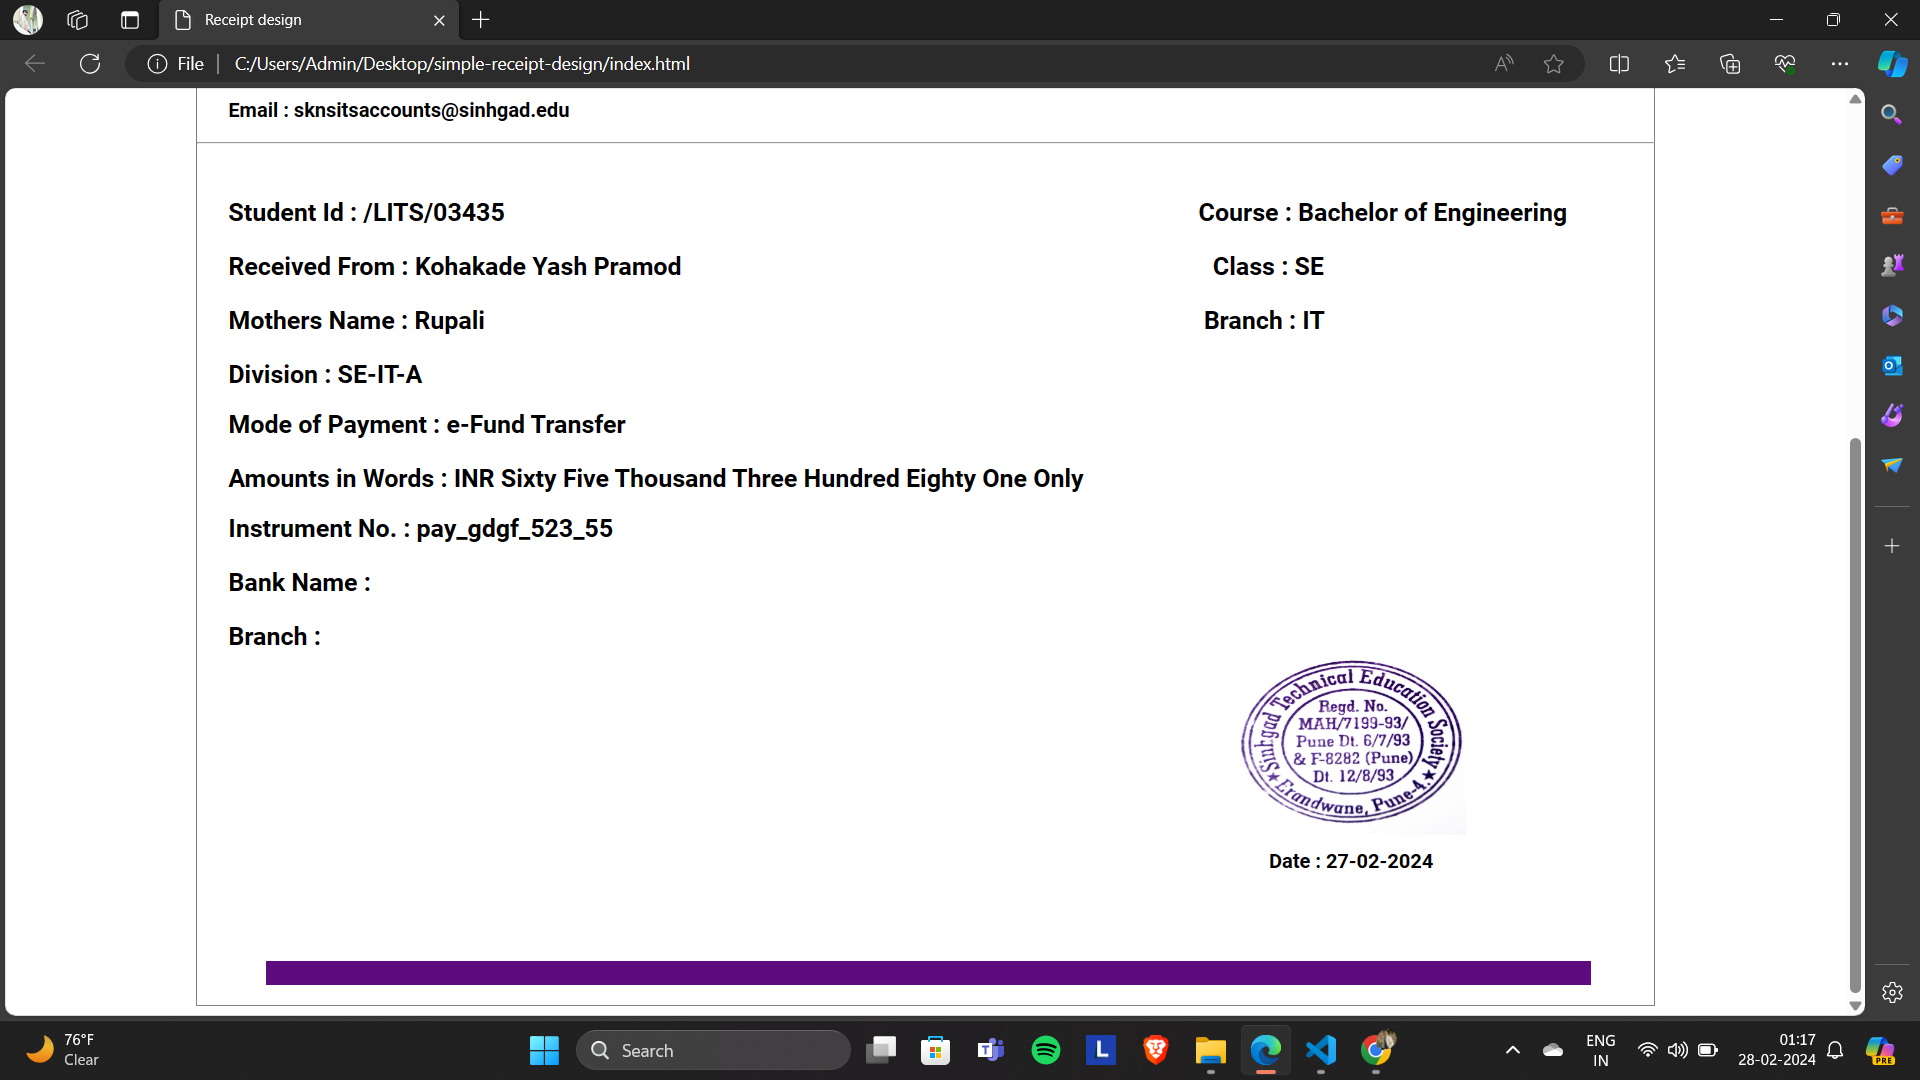
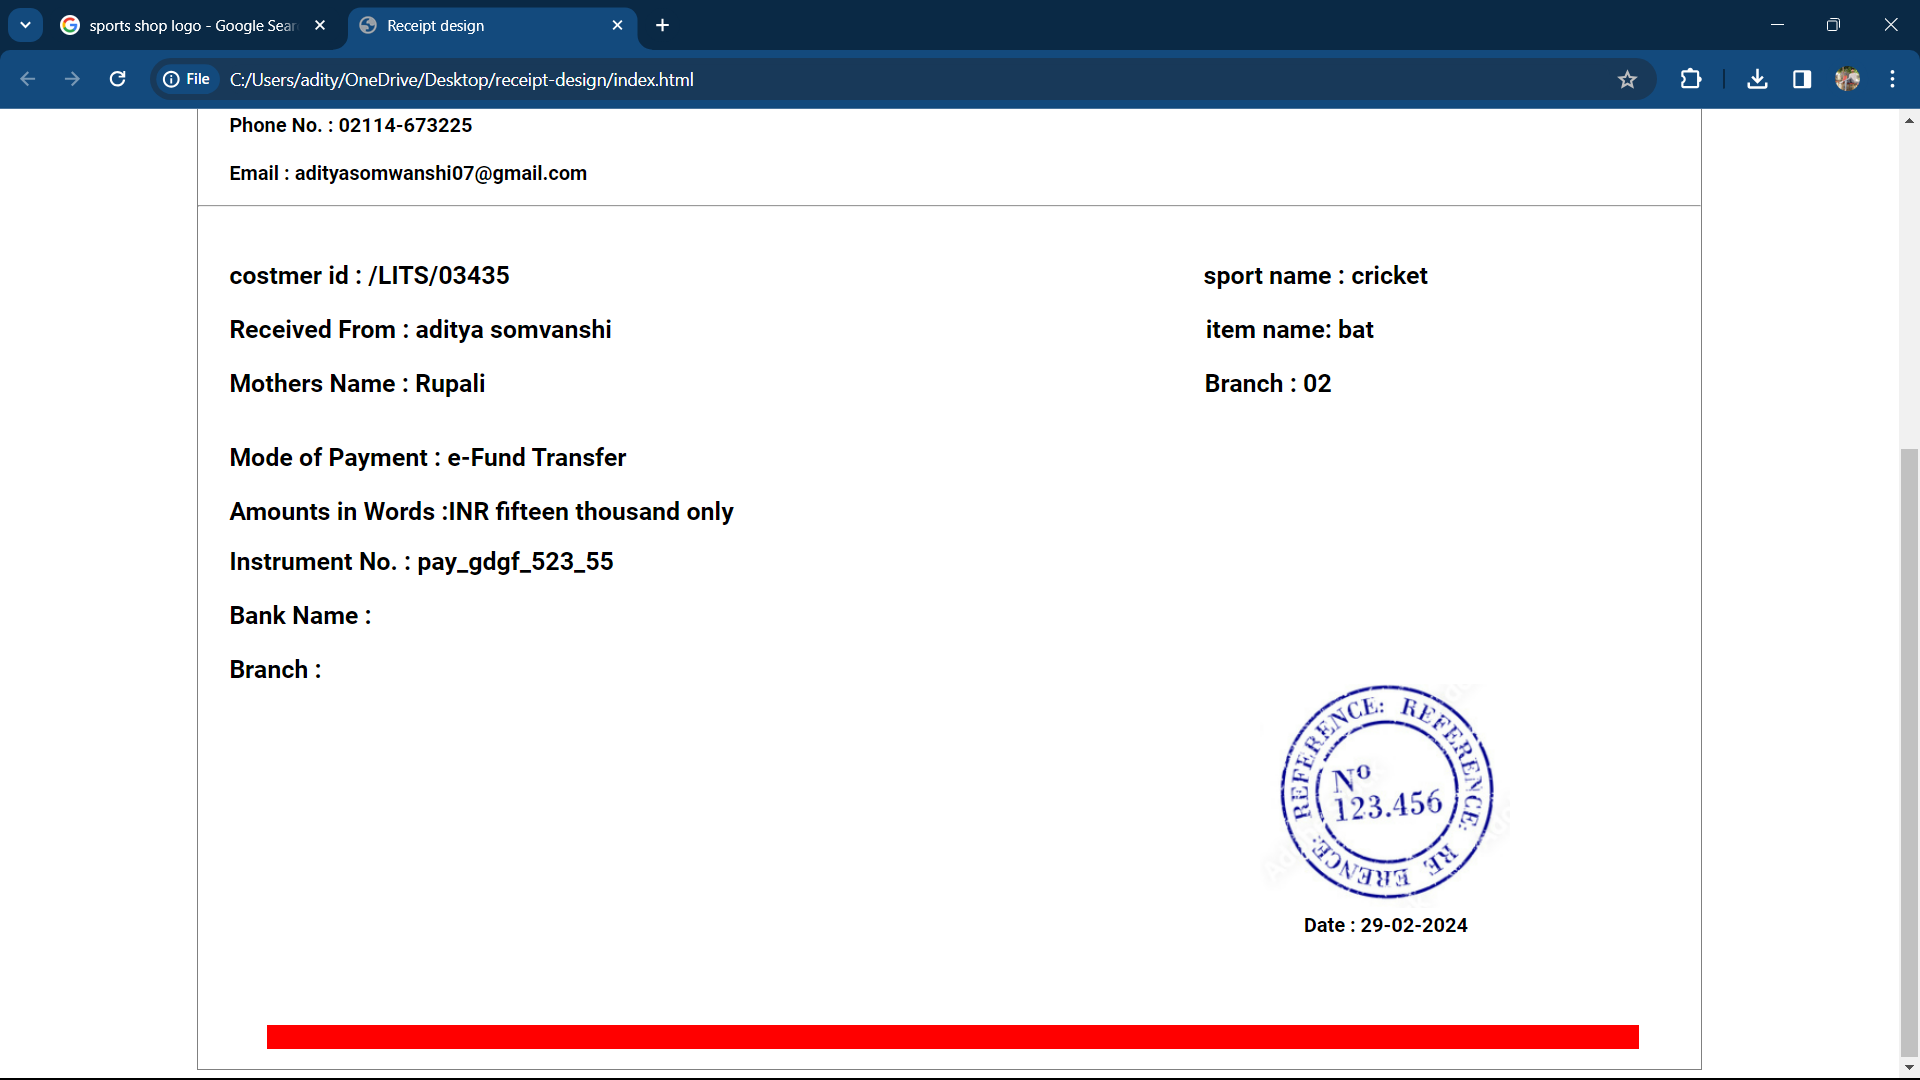
updated

diff --git a/index.html b/index.html
@@ -12,44 +12,44 @@
 <body>
     <div class="receipt-container">
    <h1 class="heading">&nbsp</h1> 
-    <h2 class="roboto-regular">SINHAGAD INSTITUTES OF TECHNOLOGY & SCIENCE</h2>
+    <h2 class="roboto-regular">ADITYA SPORTS SHOP</h2>
     <div class="roboto">
-        <P class="fees">FEES RECEIPT  <img src="./images/WhatsApp Image 2024-02-27 at 11.38.54 PM.jpeg" class="image"/></P>
+        <P class="fees">FEES RECEIPT  <img src="./images/football-soccer-logo_609550-353.avif" class="image"/></P>
         </div>
         <div class="roboto">
-            <p><span class="info">SKN sinhagad institue of technology & sciences
+            <p><span class="info">Aditya group of Sports 
                 <span class="date">Date: 27/02/2024 </span>
                 </span><br/><br/>
         Gat No.309/310, Kusgaon (Bk), Off Mumbai-Pune <span class="left">Receipt No.: LITS/2023/13/06/2004</span><br/>
-Expressway, Lonavala, Dist- Pune-410401<br/><br/>
+jalgoan-424206, jamner, Dist- jalgoan-424206<br/><br/>
 Phone No. : 02114-673225<br/><br/>
-Email : sknsitsaccounts@sinhgad.edu<br/></p>
+Email : adityasomwanshi07@gmail.com<br/></p>
             </div>
             <hr/>
             <br/>
             <div class="roboto">
                <p>
-                <span class="details">Student Id : /LITS/03435
-                    <span class="side">Course : Bachelor of Engineering</span>
+                <span class="details">costmer id : /LITS/03435
+                    <span class="side">sport name : cricket</span>
                 </span><br/><br/>
-                <span class="details">Received From : Kohakade Yash Pramod
-                    <span class="side1">Class : SE</span>
+                <span class="details">Received From : aditya somvanshi
+                    <span class="side1">item name: bat</span>
 </span><br/><br/>
 <span class="details">Mothers Name : Rupali
-                    <span class="side2">Branch : IT</span>
+                    <span class="side2">Branch : 02</span>
 </span><br/><br/>
-<span class="details">Division : SE-IT-A</span>
+
                 </p>
                 <div>
                     <p>
                         <span class="details">Mode of Payment : e-Fund Transfer</span><br/><br/>
-                        <span class="details">Amounts in Words : INR Sixty Five Thousand Three Hundred Eighty One Only</span></p>
+                        <span class="details">Amounts in Words :INR fifteen thousand only</span></p>
                         <span class="details">Instrument No. : pay_gdgf_523_55</span><br/><br/>
                         <span class="details">Bank Name :</span>
                         <br/><br/>
                         <span class="details">Branch :</span><br/>
-                        <img src="./images/WhatsApp Image 2024-02-27 at 11.38.55 PM.jpeg" class="image2"/><br/>
-                        <span class="footer">Date : 27-02-2024</span>
+                        <img src="./images/Screenshot 2024-02-29 162100.png" class="image2"/><br/>
+                        <span class="footer">Date : 29-02-2024</span>
                         </p>
                     </div><br/><br/>
                     <div>

diff --git a/css/receipt.css b/css/receipt.css
@@ -1,5 +1,5 @@
 .heading{
-  background-color: rgb(93, 12, 128);
+  background-color: red;
   margin-left: 30px;
   margin-right: 30px;
 }
@@ -37,7 +37,7 @@
   font-size: 20px
 }
 .date{
-  padding-left: 350px;
+  padding-left: 580px;
 }
 .left{
   padding-left: 400px;
@@ -52,7 +52,7 @@
   padding-left: 550px
 }
 .side1{
-  padding-left: 420px;
+  padding-left: 470px;
 }
 .side2{
   padding-left: 570px;
@@ -67,7 +67,7 @@
 
 }
 .bottom{
-  background-color: rgb(93, 12, 128);
+  background-color: red;
   margin-left: 30px;
   margin-right: 50px;
 }
